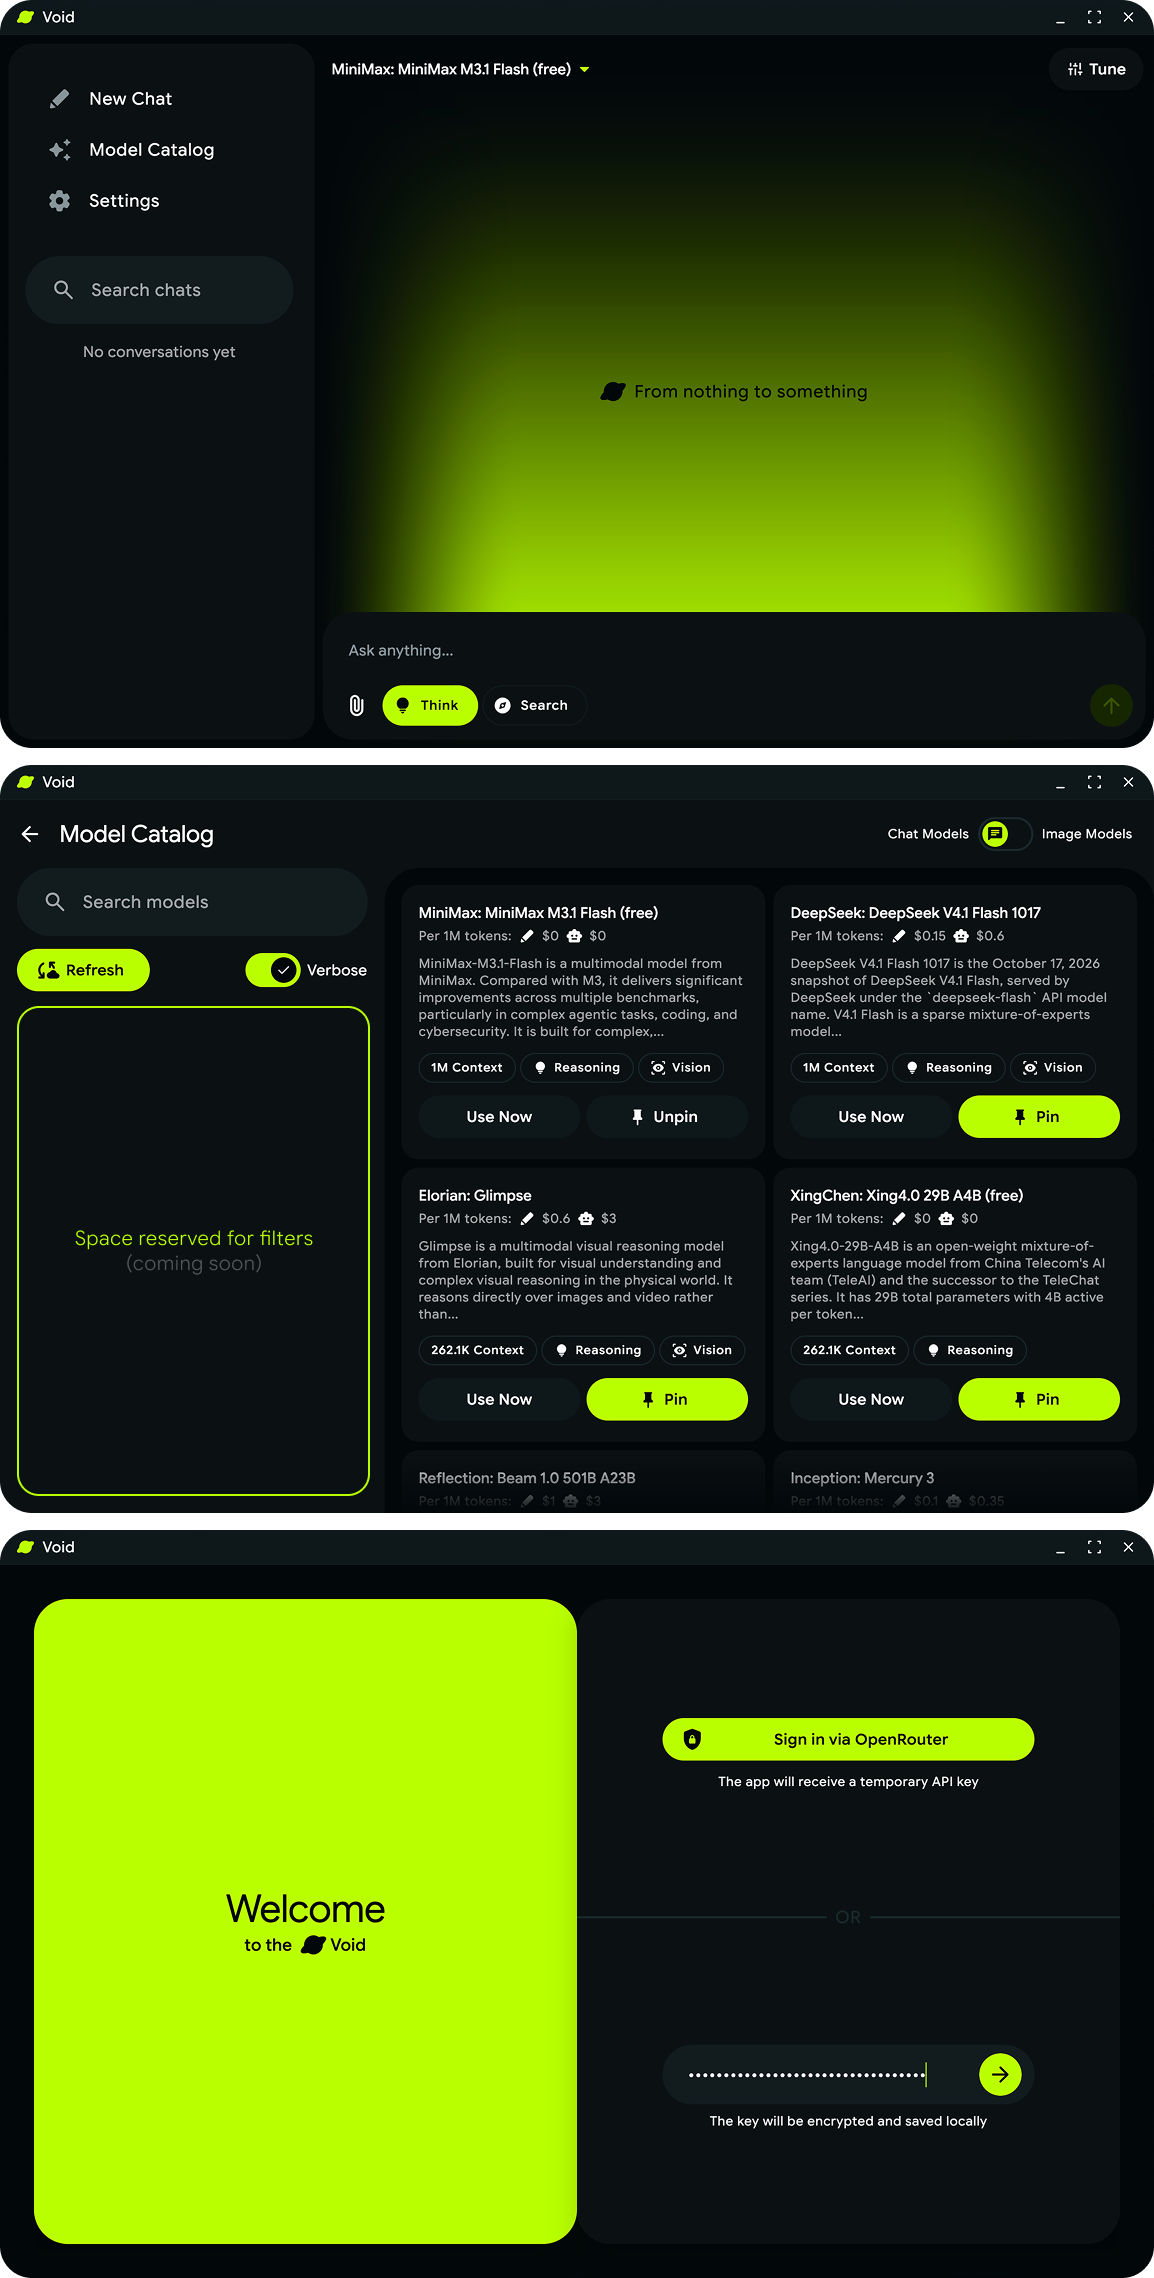
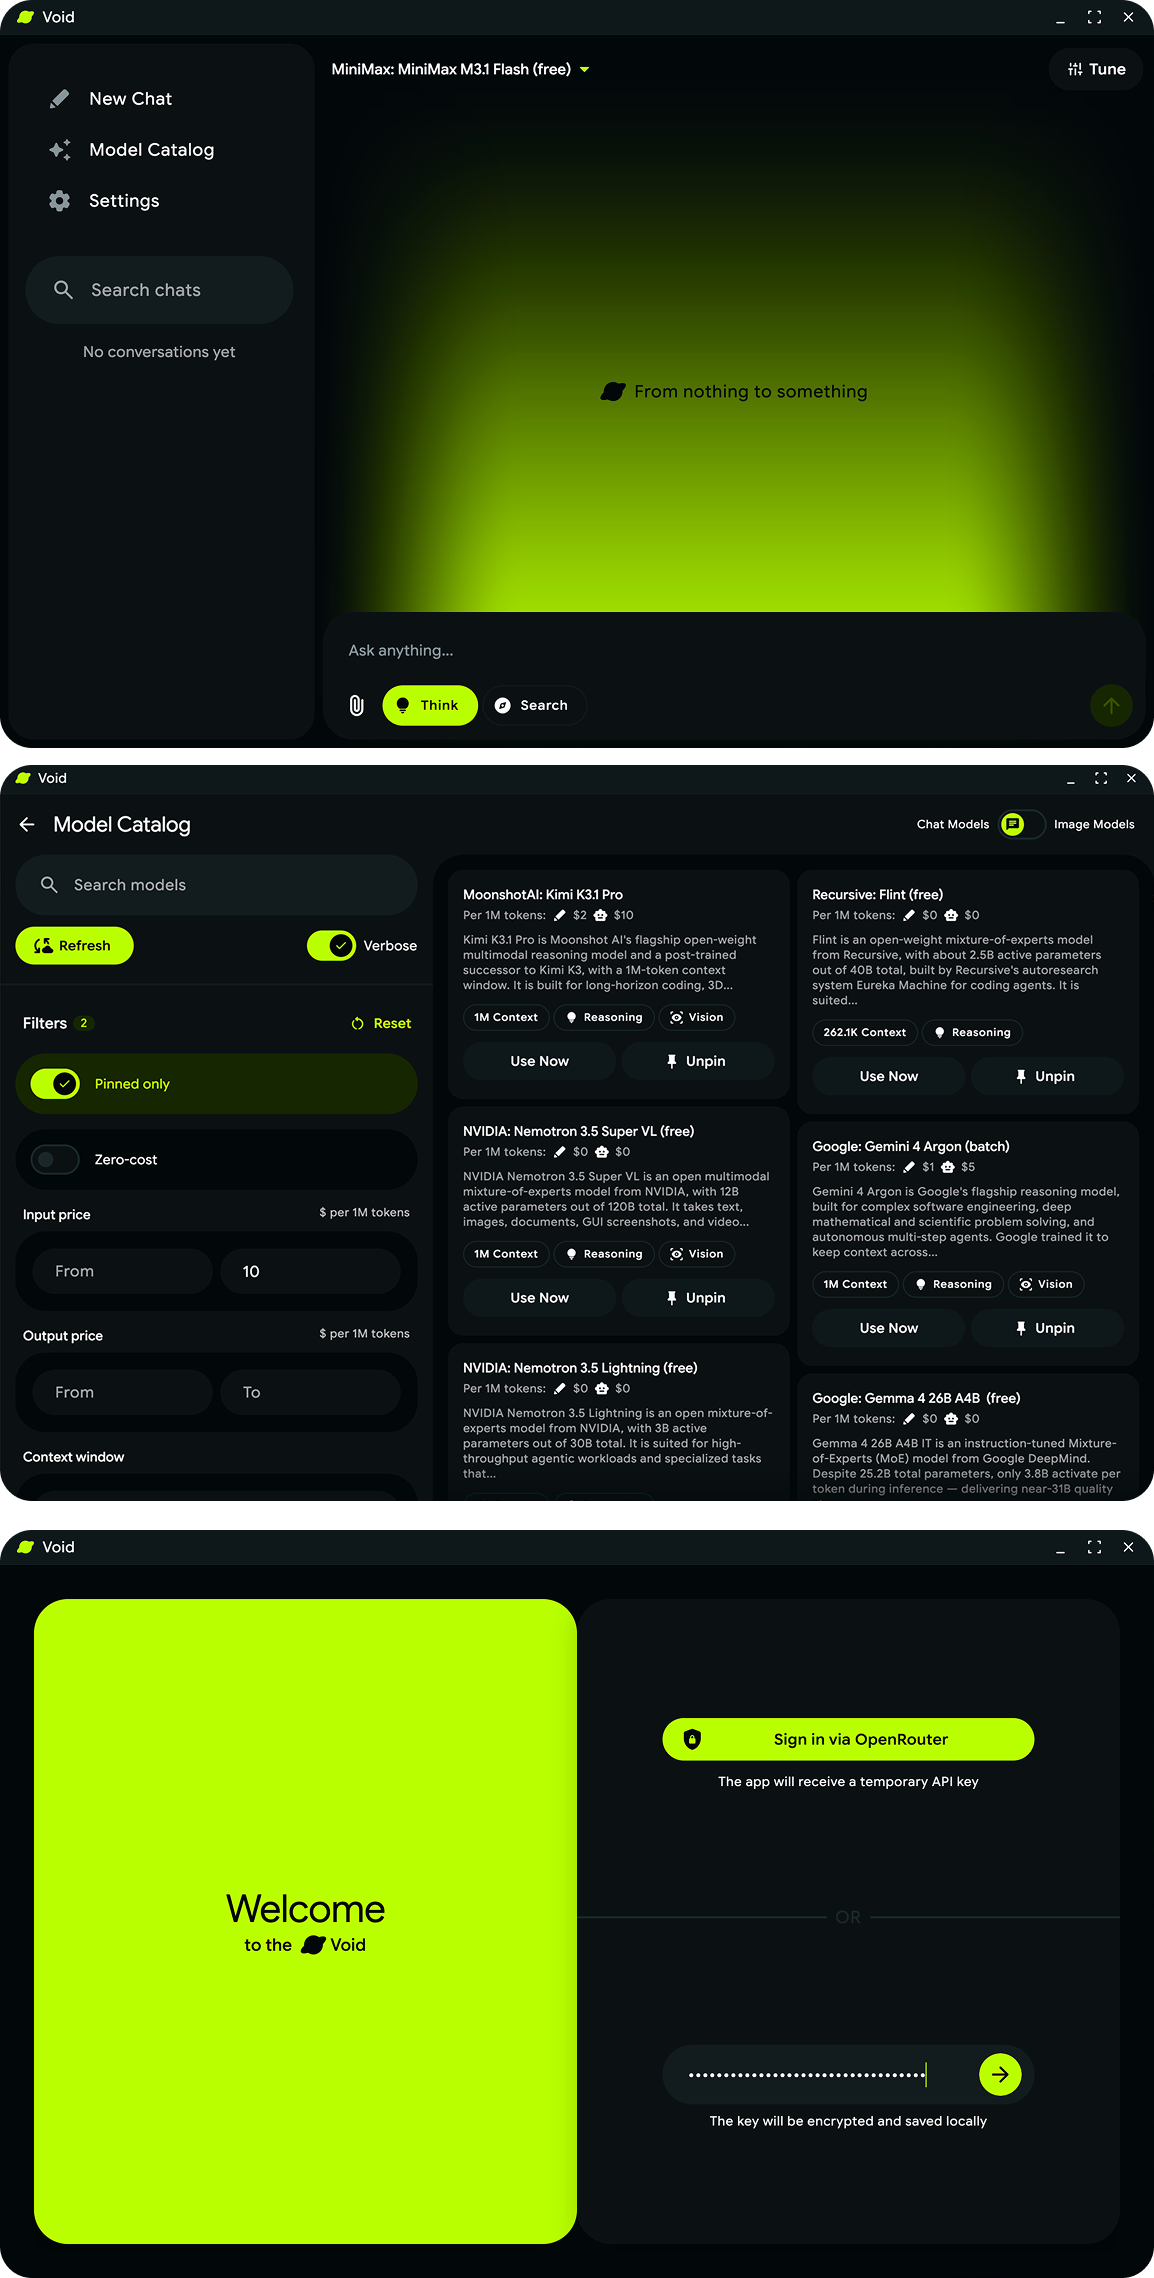
docs: update README.md

diff --git a/README.md b/README.md
@@ -19,6 +19,7 @@ welcome to **fork or clone** the repository and take it in your own direction.
 
 - Conversations and messages are stored locally
 - Streaming responses
+- Attach images to your prompts
 - Thinking (reasoning) and web search support
 - Regenerate the last response
 - Graceful error handling: failed generations are kept in the conversation and can be retried
@@ -29,6 +30,7 @@ welcome to **fork or clone** the repository and take it in your own direction.
 - Loads all OpenRouter models: both **Chat** and **Image** models
 - Search for a model, then use it right away or pin it for later
 - Shows each model's name, context window and price per 1M tokens
+- Filter models by price, context window, features and modalities
 
 #### Settings
 
@@ -255,7 +257,7 @@ graph TD
 | `feature:root`     | Application shell that owns the Decompose root, navigation stack, theme and startup routing between screens.   |
 | `feature:auth`     | Sign-in screen with browser-based OAuth 2.0 + PKCE and manual API key entry, plus platform-specific launchers. |
 | `feature:chat`     | Conversation screen with streaming chat, model selection, thinking/web search toggles and history management.  |
-| `feature:catalog`  | Model catalog with search, refresh, pinning and selection of chat or image models.                             |
+| `feature:catalog`  | Model catalog with search, filtering, refresh, pinning and selection of chat or image models.                  |
 | `feature:settings` | Settings screen for theme, API key updates and sign-out with local data cleanup.                               |
 
 #### Core modules
@@ -274,7 +276,7 @@ graph TD
 | `core:data:settings` | DataStore-backed settings repository for the selected app theme.                                              |
 | `core:data:session`  | Persists the active model, tuning/image parameters and thinking/web search flags.                             |
 | `core:data:catalog`  | Syncs the OpenRouter catalog into Room and exposes use cases to observe, refresh and pin models.              |
-| `core:data:chat`     | Chat and conversation repositories, streaming response generation and image encoding.                         |
+| `core:data:chat`     | Chat and conversation repositories, streaming response generation, attachment storage and image encoding.     |
 
 <br>
 
@@ -282,5 +284,5 @@ graph TD
 
 - Image generation
 - Model tuning (parameters)
-- Model filtering in the catalog (by price, features, etc.)
 - Tests, starting with unit tests
+- CI & Releases
